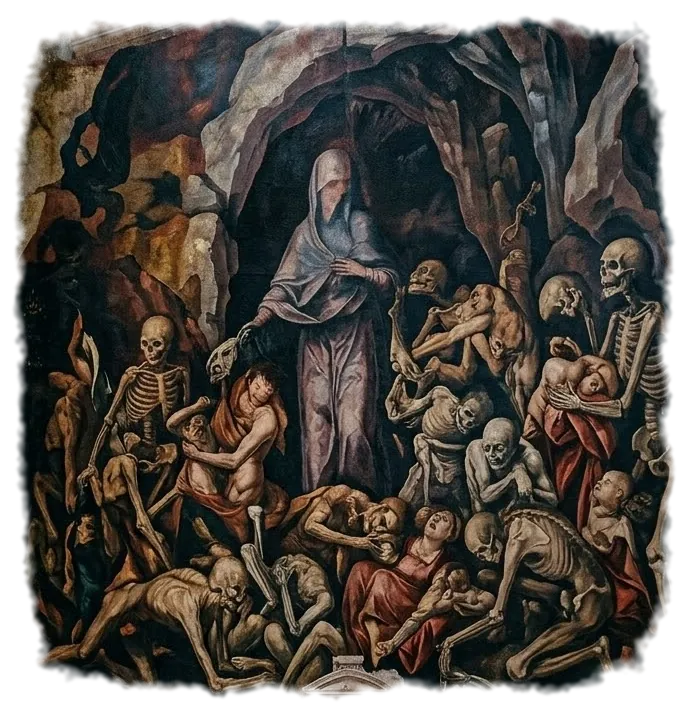
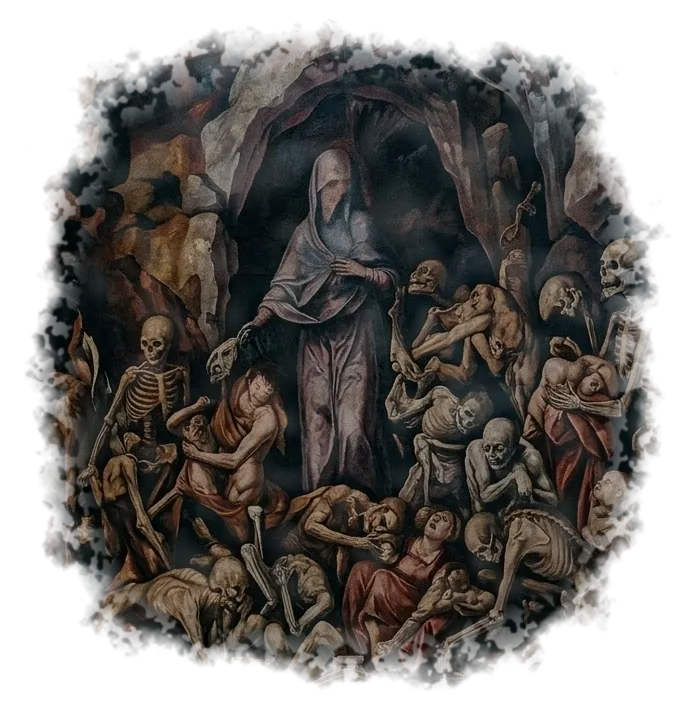
Cappella: murales piu' usurati (bordi erosi, scaglie, sbiaditi), meno luminosi; 8 candele in piu e una seconda luce
Claude-Session: https://claude.ai/code/session_014dApnh5cQuMdZvTWDcVASP

diff --git a/sw.js b/sw.js
@@ -2,8 +2,8 @@
  * - Shell (html/css/js/vendor/icone): precache, cache-first. Nuova versione => nuovo SW "in attesa" => banner nell'app.
  * - Asset pesanti (modelli, texture, audio): cache separata; scaricati in background dopo l'installazione.
  * Le due versioni qui sotto le aggiorna tools/bump.sh a ogni modifica (hash del contenuto): non toccarle a mano. */
-const SHELL_VERSION = 'dc74190ab7';   // @shell
-const ASSET_VERSION = 'a77847a1d4';   // @assets
+const SHELL_VERSION = '52f952741a';   // @shell
+const ASSET_VERSION = '5fc69b4774';   // @assets
 const SHELL = 'ng-shell-' + SHELL_VERSION, ASSETS = 'ng-assets-' + ASSET_VERSION;
 const SHELL_FILES = ['./','./css/style.css','./icons/icon-180.png','./icons/icon-192.png','./icons/icon-32.png','./icons/icon-512.png','./icons/maskable-512.png','./index.html','./js/audio/audio.js','./js/events/ambient.js','./js/events/cellar.js','./js/events/combat.js','./js/events/dawn.js','./js/events/door.js','./js/events/glass.js','./js/events/hall.js','./js/events/hound.js','./js/events/morgue.js','./js/events/notes.js','./js/events/rats.js','./js/events/scare.js','./js/events/sorella.js','./js/events/torch.js','./js/events/tower.js','./js/events/tv.js','./js/events/ward.js','./js/events/warehouse.js','./js/main.js','./js/personal.js','./js/player/controls.js','./js/player/player.js','./js/pwa.js','./js/story.js','./js/ui/instability.js','./js/ui/rgbshift.js','./js/world/aged.js','./js/world/atmos.js','./js/world/blood.js','./js/world/bloodfont.js','./js/world/chapel.js','./js/world/decor.js','./js/world/dust.js','./js/world/extra.js','./js/world/fingerwrite.js','./js/world/lights.js','./js/world/materials.js','./js/world/nun.js','./js/world/props.js','./js/world/redlight.js','./js/world/rooms.js','./js/world/tunnel.js','./manifest.webmanifest','./vendor/three/LICENSE','./vendor/three/Reflector.js','./vendor/three/loaders/GLTFLoader.js','./vendor/three/three.module.min.js','./vendor/three/utils/BufferGeometryUtils.js']; // @shellfiles
 const ASSET_FILES = ['./assets/audio/crowd_drone.mp3','./assets/audio/demon_growl.mp3','./assets/audio/fire_swoosh.mp3','./assets/audio/hound_breath.mp3','./assets/audio/step0.mp3','./assets/audio/step1.mp3','./assets/audio/step2.mp3','./assets/audio/step3.mp3','./assets/audio/step4.mp3','./assets/models/ammo.glb','./assets/models/axe.glb','./assets/models/bin.glb','./assets/models/c_nurse.glb','./assets/models/c_occ.glb','./assets/models/cabinet.glb','./assets/models/cam.glb','./assets/models/can.glb','./assets/models/cart.glb','./assets/models/chair.glb','./assets/models/door.glb','./assets/models/gate.glb','./assets/models/hlamp.glb','./assets/models/hound.glb','./assets/models/hs_bed.glb','./assets/models/hw_door_1.glb','./assets/models/hw_wheel_chair.glb','./assets/models/kit_cables.glb','./assets/models/kit_fence.glb','./assets/models/kit_gutter.glb','./assets/models/kit_ind.glb','./assets/models/kit_manhole.glb','./assets/models/kit_pipes.glb','./assets/models/lamp.glb','./assets/models/m_bell.glb','./assets/models/m_diver.glb','./assets/models/m_nurse.glb','./assets/models/m_occ.glb','./assets/models/m_pirate.glb','./assets/models/m_root.glb','./assets/models/m_varka.glb','./assets/models/m_whisperer.glb','./assets/models/mg_chair.glb','./assets/models/mg_tool1.glb','./assets/models/mg_tool3.glb','./assets/models/mg_tool4.glb','./assets/models/mg_wall.glb','./assets/models/pistol.glb','./assets/models/rack.glb','./assets/models/rim.glb','./assets/models/seclight.glb','./assets/models/shelf.glb','./assets/models/slamp1.glb','./assets/models/slamp2.glb','./assets/models/sorella.glb','./assets/models/stool.glb','./assets/models/stove.glb','./assets/models/tank.glb','./assets/models/whisperer.glb','./assets/models/wlamp.glb','./assets/models/x_basket.glb','./assets/models/x_bust.glb','./assets/models/x_clock.glb','./assets/models/x_gnome.glb','./assets/models/x_lion.glb','./assets/models/x_micro.glb','./assets/models/x_rat.glb','./assets/models/x_screen.glb','./assets/models/x_spray.glb','./assets/models/x_tv.glb','./assets/models/x_watch.glb','./assets/tex/bath_bg.jpg','./assets/tex/blood_digits.png','./assets/tex/blood_font.png','./assets/tex/blood_real.png','./assets/tex/brick_c.jpg','./assets/tex/brick_n.jpg','./assets/tex/brick_orm.jpg','./assets/tex/floorA_c.jpg','./assets/tex/floorA_n.jpg','./assets/tex/floorA_orm.jpg','./assets/tex/floorB_c.jpg','./assets/tex/floorB_n.jpg','./assets/tex/floorB_orm.jpg','./assets/tex/foot_l.png','./assets/tex/foot_r.png','./assets/tex/hall_bg.jpg','./assets/tex/handA.png','./assets/tex/handC.png','./assets/tex/handM.png','./assets/tex/handN.png','./assets/tex/mg_floor.jpg','./assets/tex/night_bg.jpg','./assets/tex/pic_alice.jpg','./assets/tex/pic_anatomy.webp','./assets/tex/pic_burn_figure.webp','./assets/tex/pic_chapel_altar.webp','./assets/tex/pic_chapel_hell.webp','./assets/tex/pic_chapel_skel.webp','./assets/tex/pic_charcoal.webp','./assets/tex/pic_corridor.webp','./assets/tex/pic_drawing.jpg','./assets/tex/pic_drawing2.webp','./assets/tex/pic_elisa.jpg','./assets/tex/pic_family.webp','./assets/tex/pic_laya.jpg','./assets/tex/pic_mural_angel.webp','./assets/tex/pic_mural_angels.webp','./assets/tex/pic_mural_cathedral.webp','./assets/tex/pic_mural_child.webp','./assets/tex/pic_mural_corridor.webp','./assets/tex/pic_mural_demon.webp','./assets/tex/pic_mural_dog.webp','./assets/tex/pic_mural_door.webp','./assets/tex/pic_mural_eyes.webp','./assets/tex/pic_mural_faces.webp','./assets/tex/pic_mural_fire.webp','./assets/tex/pic_mural_inferno.webp','./assets/tex/pic_mural_nun.webp','./assets/tex/pic_mural_ritual.webp','./assets/tex/pic_mural_skull.webp','./assets/tex/pic_mural_throne.webp','./assets/tex/pic_mural_wide.webp','./assets/tex/pic_rebecca.jpg','./assets/tex/pic_saint.webp','./assets/tex/pic_window.webp','./assets/tex/pic_yana.jpg','./assets/tex/pt_blocks.webp','./assets/tex/pt_gravel.webp','./assets/tex/pt_layers.webp','./assets/tex/pt_mold.webp','./assets/tex/pt_plaster.webp','./assets/tex/pt_rough.webp','./assets/tex/pt_stain.webp','./assets/tex/rust_c.jpg','./assets/tex/rust_n.jpg','./assets/tex/rust_orm.jpg','./assets/tex/rust_ov.jpg','./assets/tex/rust_ov2.jpg','./assets/tex/stone_c.jpg','./assets/tex/stone_n.jpg','./assets/tex/stone_orm.jpg','./assets/tex/sym_eye.png','./assets/tex/sym_face.png','./assets/tex/sym_house.png','./assets/tex/ward_ceiling.jpg','./assets/tex/wr_elisa_1.png','./assets/tex/wr_elisa_2.png','./assets/tex/wr_elisa_3.png','./assets/tex/wr_elisa_4.png','./assets/tex/wr_elisa_h.png','./assets/tex/wr_elisa_m.png','./assets/tex/wr_elisa_o.png','./assets/tex/wr_sigil.png','./assets/tex/wr_std_c2.png','./assets/tex/wr_std_h.png','./assets/tex/wr_std_m.png','./assets/tex/wr_std_o.png','./assets/tex/wr_std_t1.png','./assets/tex/wr_std_t3.png','./assets/tex/wr_std_w4.png','./assets/tex/wr_thai.webp','./assets/tex/wr_yana_1.png','./assets/tex/wr_yana_2.png','./assets/tex/wr_yana_3.png','./assets/tex/wr_yana_4.png','./assets/tex/wr_yana_h.png','./assets/tex/wr_yana_m.png','./assets/tex/wr_yana_o.png']; // @assetfiles

diff --git a/js/world/chapel.js b/js/world/chapel.js
@@ -26,11 +26,12 @@ export function createChapel({ group, mats, zc, P, x0 = 4.0, w = 3.2, l = 3.0, h
 
   // candele sul piano e luce calda che sfarfalla
   const wax = new THREE.MeshStandardMaterial({ color: 0x15120f, roughness: 0.8 }), flame = new THREE.MeshBasicMaterial({ color: 0xffb35c });
-  for (const [dx, dz, ch] of [[-0.25, -0.78, 0.26], [-0.1, 0.8, 0.2], [0.05, -0.5, 0.14], [-0.2, 0.52, 0.3]]) {
-    const c = new THREE.Mesh(new THREE.CylinderGeometry(0.03, 0.036, ch, 8), wax); c.position.set(aX + dx, 1.32 + ch / 2, zc + dz); G.add(c);
-    const f = new THREE.Mesh(new THREE.SphereGeometry(0.014, 6, 6), flame); f.position.set(aX + dx, 1.32 + ch + 0.025, zc + dz); G.add(f);
-  }
-  K.light = new THREE.PointLight(0xff8a3a, 1.5, 6.5, 1.6); K.light.position.set(aX - 0.9, 2.0, zc); G.add(K.light);
+  const candle = (x, y, z, ch) => { const c = new THREE.Mesh(new THREE.CylinderGeometry(0.03, 0.036, ch, 8), wax); c.position.set(x, y + ch / 2, z); G.add(c); const f = new THREE.Mesh(new THREE.SphereGeometry(0.014, 6, 6), flame); f.position.set(x, y + ch + 0.025, z); G.add(f); };
+  for (const [dx, dz, ch] of [[-0.25, -0.78, 0.26], [-0.1, 0.8, 0.2], [0.05, -0.5, 0.14], [-0.2, 0.52, 0.3], [0.0, 0.25, 0.1], [-0.3, -0.2, 0.18]]) candle(aX + dx, 1.32, zc + dz, ch);   // sul piano
+  for (const [dx, dz, ch] of [[-0.55, -1.0, 0.2], [-0.5, 0.95, 0.14], [-0.6, -0.4, 0.24], [-0.52, 0.45, 0.12]]) candle(aX + dx, 0.26, zc + dz, ch);   // sul secondo gradino
+  for (const [x, z, ch] of [[x0 + 1.55, zc - 0.55, 0.3], [x0 + 1.7, zc + 0.5, 0.22], [x0 + 0.95, zc - 1.25, 0.16], [x0 + 0.9, zc + 1.2, 0.26]]) candle(x, 0, z, ch);   // sul pavimento, davanti all'altare
+  K.light = new THREE.PointLight(0xff8a3a, 1.7, 6.5, 1.6); K.light.position.set(aX - 0.9, 2.0, zc); G.add(K.light);
+  K.light2 = new THREE.PointLight(0xff7a30, 1.0, 5.0, 1.7); K.light2.position.set(x0 + 1.5, 0.8, zc); G.add(K.light2);   // candele sul pavimento: schiariscono i muri laterali
 
   // il rito: nome e data di OGGI (il giorno in cui si gioca) a sangue sul davanti dell'altare. Nessuna foto, in nessuna versione.
   if (P) {
@@ -50,6 +51,6 @@ export function createChapel({ group, mats, zc, P, x0 = 4.0, w = 3.2, l = 3.0, h
     mur('pic_chapel_hell.webp', 0.5392, [x0 + w / 2, 1.75, z0 - 0.012], '-z', 1.4),    // lato +z
   ]);
 
-  K.update = (dt) => { K.t += dt; K.light.intensity = 1.4 + Math.sin(K.t * 11.3) * 0.12 + Math.sin(K.t * 27.1) * 0.07 + (Math.sin(K.t * 3.1) > 0.97 ? -0.3 : 0); };
+  K.update = (dt) => { K.t += dt; K.light.intensity = 1.6 + Math.sin(K.t * 11.3) * 0.14 + Math.sin(K.t * 27.1) * 0.08 + (Math.sin(K.t * 3.1) > 0.97 ? -0.3 : 0); K.light2.intensity = 0.95 + Math.sin(K.t * 9.1 + 1) * 0.12 + Math.sin(K.t * 23.3) * 0.07; };
   return K;
 }
